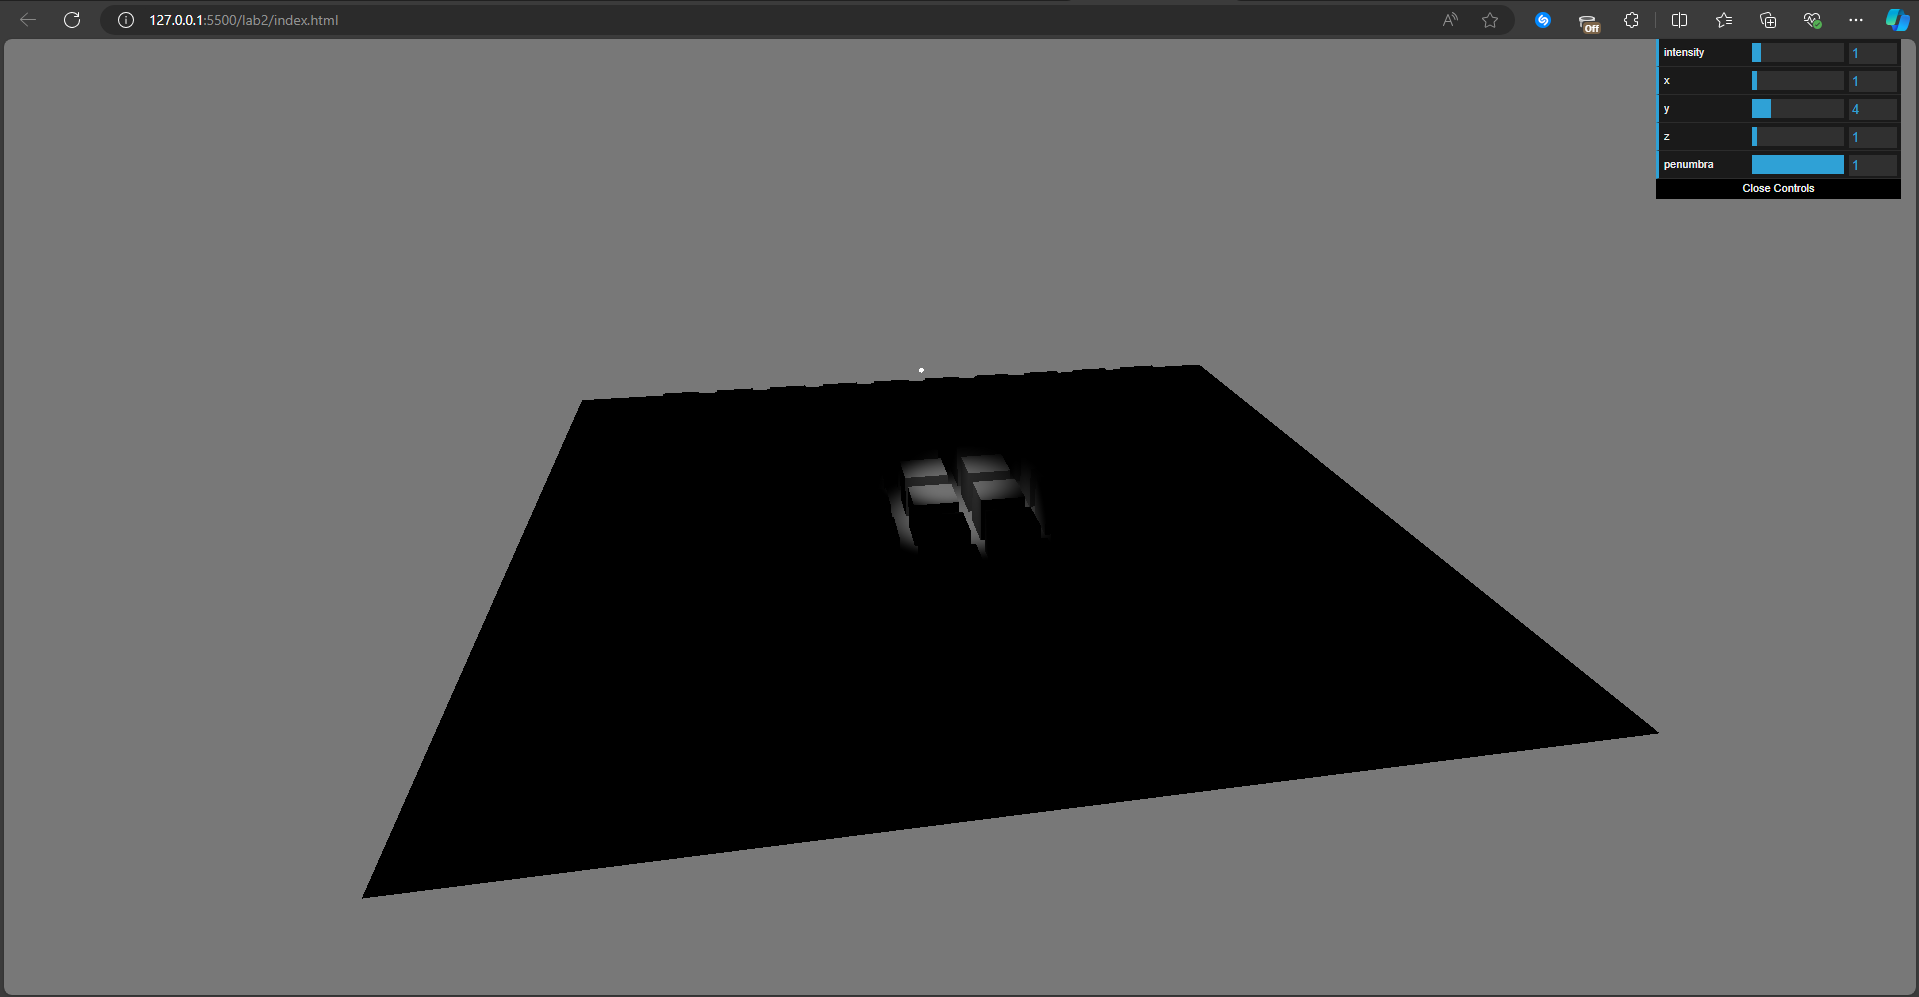
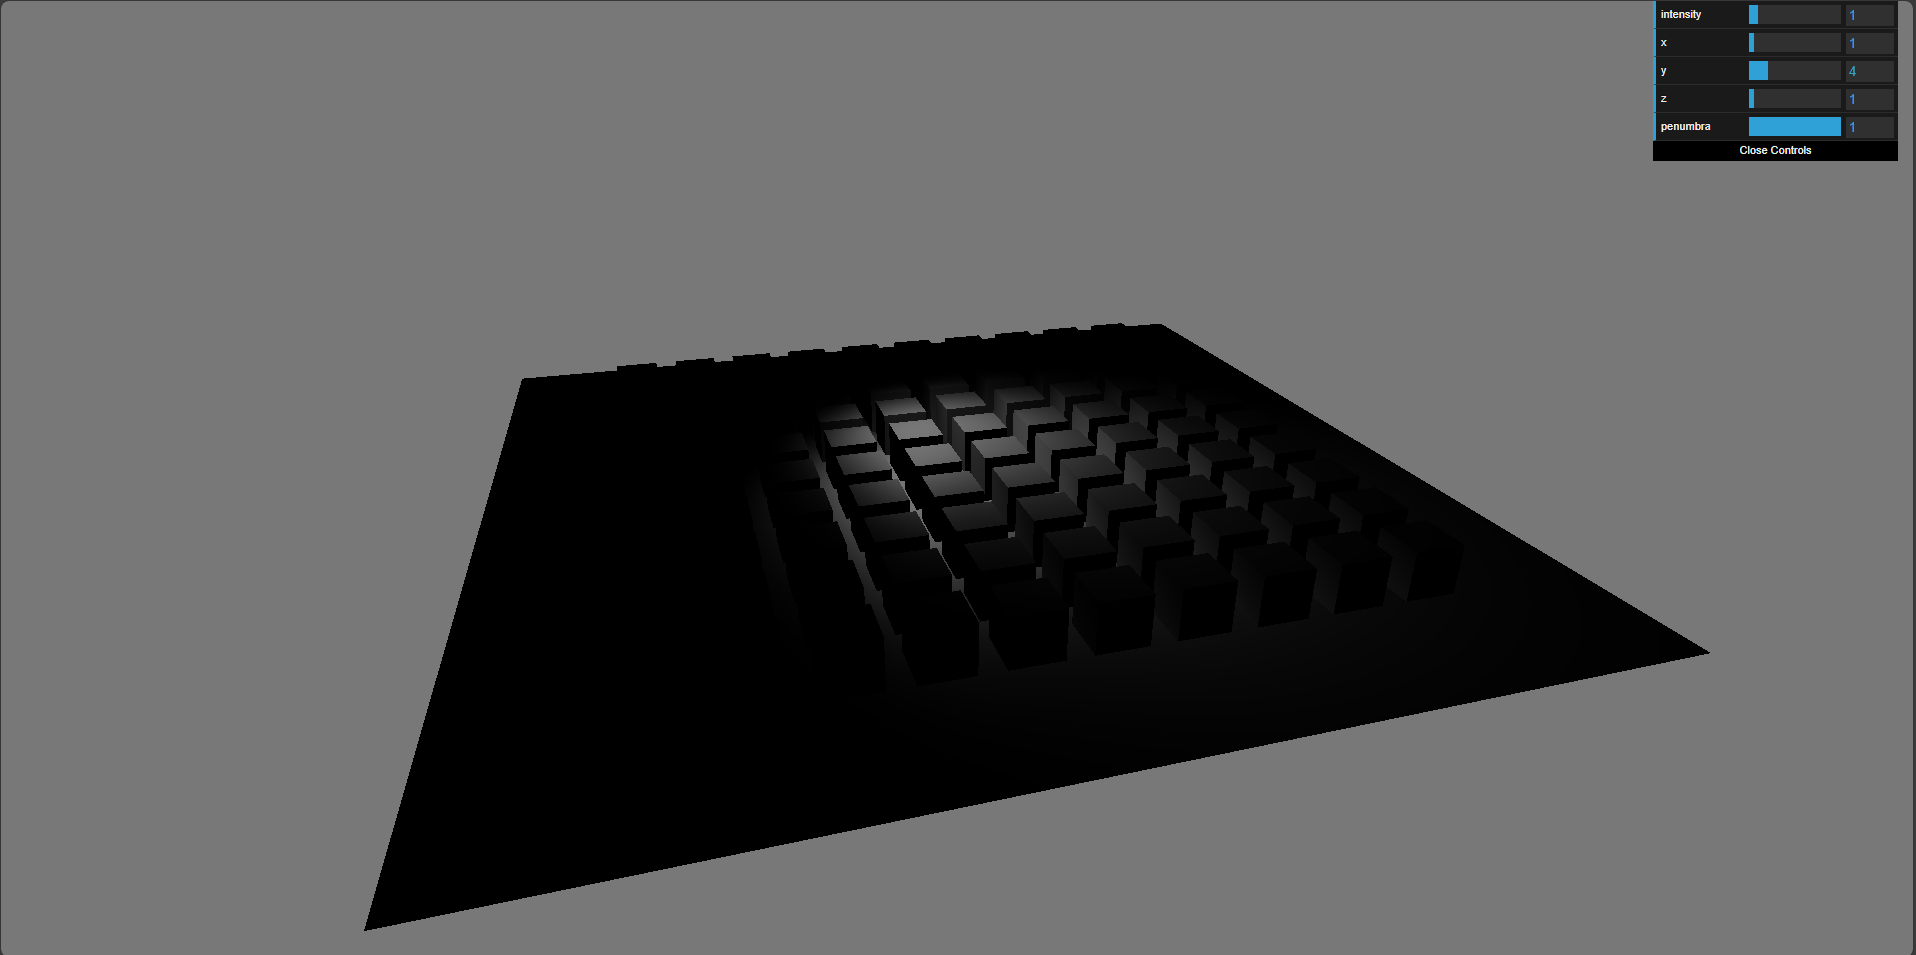
?

diff --git a/lab2/main.js b/lab2/main.js
@@ -2,59 +2,71 @@ function init() {
     var scene = new THREE.Scene();
     var enableFog = false;
     var gui = new dat.GUI();
-
     if (enableFog) {
-        scene.fog = new THREE.FogExp2(0xffffff, 0.2);
+    scene.fog = new THREE.FogExp2(0xffffff, 0.2);
     }
-
+    
+    var box = getBox(1, 1, 1);
     var plane = getPlane(20);
-    var spotLight = getSpotLight(1); // Using SpotLight
+    var spotLight = getSpotLight(1);
+    plane.name = 'plane-1';
+    plane.rotation.x = Math.PI/2;
+    spotLight.position.y = 4;
+    spotLight.intensity = 2;
+
+    scene.add(plane);
+    // scene.add(pointLight);
     var sphere = getSphere(0.05);
     var boxGrid = getBoxGrid(10, 1.5);
 
     plane.name = 'plane-1';
 
-    
-    plane.rotation.x = Math.PI / 2;
-    spotLight.position.set(0, 4, 0); // Set spotLight position
-    spotLight.intensity = 2;
+
+    plane. rotation.x = Math.PI/2;
+    // pointLight.position.y =2;
+
 
     scene.add(plane);
-    spotLight.add(sphere);
+    // pointLight.add(sphere);
     scene.add(spotLight);
     scene.add(boxGrid);
 
+
+//     gui.add(pointLight, 'intensity', 0, 10);
+//  gui.add(pointLight.position, 'y', 0, 5);
     gui.add(spotLight, 'intensity', 0, 10);
     gui.add(spotLight.position, 'x', 0, 20);
     gui.add(spotLight.position, 'y', 0, 20);
     gui.add(spotLight.position, 'z', 0, 20);
     gui.add(spotLight, 'penumbra', 0, 1);
-
     var camera = new THREE.PerspectiveCamera(
         50,
-        window.innerWidth / window.innerHeight,
+        window.innerWidth/window.innerHeight,
         1,
         1000
     );
-    camera.position.set(1, 2, 5);
+    camera.position.x = 1;
+    camera.position.y = 2;
+    camera.position.z = 5;
     camera.lookAt(new THREE.Vector3(0, 0, 0));
-
     var renderer = new THREE.WebGLRenderer();
     renderer.setSize(window.innerWidth, window.innerHeight);
-    renderer.setClearColor('rgb(120, 120, 120)')
-    document.getElementById("webgl").appendChild(renderer.domElement);
-
+    renderer.setClearColor('rgb(120, 120, 120)');
+    document.getElementById('webgl').appendChild(renderer.domElement);
     var controls = new THREE.OrbitControls(camera, renderer.domElement);
-
     update(renderer, scene, camera, controls);
 }
 
-function getBox(width, height, depth) {
-    var geometry = new THREE.BoxGeometry(width, height, depth);
+function getBox(w, h, d) {
+    var geometry = new THREE.BoxGeometry(w, h, d);
     var material = new THREE.MeshPhongMaterial({
         color: 'rgb(120, 120, 120)'
     });
-    var mesh = new THREE.Mesh(geometry, material);
+
+    var mesh = new THREE.Mesh(
+        geometry,
+        material
+    );
     mesh.castShadow = true;
     return mesh;
 }
@@ -65,52 +77,67 @@ function getPlane(size) {
         color: 'rgb(120, 120, 120)',
         side: THREE.DoubleSide
     });
-    var mesh = new THREE.Mesh(geometry, material);
+    var mesh = new THREE.Mesh(
+        geometry,
+        material
+    );
+
     mesh.receiveShadow = true;
     return mesh;
 }
 
-function getSpotLight(intensity) { // Adjusted to only use SpotLight
+function getPointLight(intensity) {
+    var light = new THREE.PointLight(0xffffff, intensity);
+    light.castShadow = true;
+    return light;
+}
+
+function getSpotLight(intensity) {
     var light = new THREE.SpotLight(0xffffff, intensity);
     light.castShadow = true;
-    light.angle = Math.PI / 6;
-    light.penumbra = 0.5;
-    light.decay = 2;
-    light.distance = 200;
     return light;
 }
 
 function update(renderer, scene, camera, controls) {
-    renderer.render(scene, camera);
-    controls.update();
-    requestAnimationFrame(function () {
-        update(renderer, scene, camera, controls);
-    });
-}
+    renderer.render(
+        scene,
+        camera
+    );
 
+    controls.update()
+    requestAnimationFrame(function() {
+        update(renderer, scene, camera, controls);
+    })
+}
 function getSphere(size) {
     var geometry = new THREE.SphereGeometry(size, 24, 24);
     var material = new THREE.MeshBasicMaterial({
-        color: 'rgb(255, 255, 255)'
+    color: 'rgb(255, 255, 255)'
     });
-    var mesh = new THREE.Mesh(geometry, material);
+    var mesh = new THREE.Mesh(
+    geometry,
+    material
+    );
     return mesh;
 }
 
 function getBoxGrid(amount, separationMultiplier) {
-    var group = new THREE.Group();
-    for (var i = 0; i < amount; i++) {
-        for (var j = 0; j < amount; j++) {
-            var obj = getBox(1, 1, 1);
-            obj.position.x = i * separationMultiplier;
-            obj.position.y = obj.geometry.parameters.height / 2;
-            obj.position.z = j * separationMultiplier;
-            group.add(obj);
+        var group = new THREE.Group(); //an object for grouping two or more objects
+        for (var i=0; i<amount; i++) {
+        var obj = getBox(1, 1, 1);
+        obj.position.x = i * separationMultiplier;
+        obj.position.y = obj.geometry.parameters.height/2;
+        group.add(obj);
+        for (var j=1; j<amount; j++) {
+        var obj = getBox(1, 1, 1);
+        obj.position.x = i * separationMultiplier;
+        obj.position.y = obj.geometry.parameters.height/2;
+        obj.position.z = j * separationMultiplier;
+        group.add(obj);
         }
-    }
-    group.position.x = -(separationMultiplier * (amount - 1)) / 2;
-    group.position.z = -(separationMultiplier * (amount - 1)) / 2;
-    return group;
-}
-
+        }
+        group.position.x = -(separationMultiplier * (amount-1))/2;
+        group.position.z = -(separationMultiplier * (amount-1))/2;
+        return group;
+       }
 init();

diff --git a/lab4/main.js b/lab4/main.js
@@ -1,0 +1,128 @@
+function init() {
+    var scene = new THREE.Scene();
+    var gui = new dat.GUI();
+    
+    // initialize objects
+    var sphereMaterial = getMaterial('rgb(255, 245, 245)');
+    var sphere = getSphere(sphereMaterial, 1, 24);
+    var planeMaterial = getMaterial('rgb(255, 255, 255)');
+    var plane = getPlane(planeMaterial,15);
+    var sphereGrid = getSphereGrid(10, 1.5);
+
+    var lightLeft = getSpotLight(1, 'rgb(255, 220, 180)');
+    
+    // manipulate objects
+    sphere.position.y = sphere.geometry.parameters.radius;
+    plane.rotation.x = Math.PI / 2;
+    lightLeft.position.x = -5;
+    lightLeft.position.y = 4;
+    lightLeft.position.z = -4;
+    
+    // manipulate materials
+    var loader = new THREE.TextureLoader();
+    sphereMaterial.map = loader.load('/assets/textures/concrete.jpg');
+    planeMaterial.map = loader.load('/assets/textures/checkerboard.jpg');
+    
+    // dat.gui
+    var folder1 = gui.addFolder('light_1');
+    folder1.add(lightLeft, 'intensity', 0, 10);
+    folder1.add(lightLeft.position, 'x', -5, 30);
+    folder1.add(lightLeft.position, 'y', -5, 30);
+    folder1.add(lightLeft.position, 'z', -5, 30);
+    
+    var folder2 = gui.addFolder('materials');
+    folder2.add(sphereMaterial, 'roughness', 0, 1);
+    folder2.add(planeMaterial, 'roughness', 0, 1);
+    folder2.add(sphereMaterial, 'metalness', 0, 1);
+    folder2.add(planeMaterial, 'metalness', 0, 1);
+    folder2.open();
+    
+    // add objects to the scene
+    scene.add(plane);
+    scene.add(lightLeft);
+    scene.add(sphereGrid);
+    
+    // camera
+    var camera = new THREE.PerspectiveCamera(
+        45, // field of view
+        window.innerWidth / window.innerHeight, // aspect ratio
+        1, // near clipping plane
+        1000 // far clipping plane
+    );
+    camera.position.z = 7;
+    camera.position.x = -2;
+    camera.position.y = 7;
+    camera.lookAt(new THREE.Vector3(0, 0, 0));
+    
+    // renderer
+    var renderer = new THREE.WebGLRenderer();
+    renderer.setSize(window.innerWidth, window.innerHeight);
+    renderer.shadowMap.enabled = true;
+    document.getElementById('webgl').appendChild(renderer.domElement);
+    
+    var controls = new THREE.OrbitControls(camera, renderer.domElement);
+    
+    update(renderer, scene, camera, controls);
+}
+
+function getSphere(material, size, segments) {
+    var geometry = new THREE.SphereGeometry(size, segments, segments);
+    var obj = new THREE.Mesh(geometry, material);
+    obj.castShadow = true;
+    return obj;
+}
+
+function getMaterial(color) {
+    var selectedMaterial;
+    var materialOptions = {
+        color: color === undefined ? 'rgb(255, 255, 255)' : color,
+    };
+    selectedMaterial = new THREE.MeshStandardMaterial(materialOptions);
+    return selectedMaterial;
+}
+
+function getSpotLight(intensity, color) {
+    color = color === undefined ? 'rgb(255, 255, 255)' : color;
+    var light = new THREE.SpotLight(color, intensity);
+    light.castShadow = true;
+    light.penumbra = 0.5;
+    light.shadow.mapSize.width = 2048; // default: 512
+    light.shadow.mapSize.height = 2048; // default: 512
+    light.shadow.bias = 0.001;
+    return light;
+}
+
+function getPlane(material, size) {
+    var geometry = new THREE.PlaneGeometry(size, size);
+    material.side = THREE.DoubleSide;
+    var obj = new THREE.Mesh(geometry, material);
+    obj.receiveShadow = true;
+    return obj;
+}
+
+function getSphereGrid(amount, separationMultiplier) {
+    var group = new THREE.Group(); // Group for combining multiple objects
+    for (var i = 0; i < amount; i++) {
+        for (var j = 0; j < amount; j++) {
+            var sphereMaterial = getMaterial('rgb(255, 245, 245)');
+            var obj = getSphere(sphereMaterial, 0.5, 24); // Create a sphere with size 0.5
+            obj.position.x = i * separationMultiplier;
+            obj.position.y = obj.geometry.parameters.radius;
+            obj.position.z = j * separationMultiplier;
+            group.add(obj);
+        }
+    }
+    group.position.x = -(separationMultiplier * (amount - 1)) / 2;
+    group.position.z = -(separationMultiplier * (amount - 1)) / 2;
+    return group;
+}
+
+function update(renderer, scene, camera, controls) {
+    controls.update();
+    renderer.render(scene, camera);
+    requestAnimationFrame(function () {
+        update(renderer, scene, camera, controls);
+    });
+}
+
+init();

diff --git a/lab4/index.html b/lab4/index.html
@@ -1,0 +1,20 @@
+<!DOCTYPE html>
+<html lang="en">
+<head>
+    <title>Three.js</title>
+    <style type="text/css">
+        html, body {
+            margin: 0; 
+            padding: 0; 
+            overflow: hidden}
+    </style>
+</head>
+<body>
+    <div id="webgl"></div>
+    <script src="/lib/three.js"></script>
+    <script src="/lib/dat.gui.min.js"></script>
+    <script src="/lib/OrbitControls.js"></script>
+    <script src="./main.js"></script>
+    
+</body>
+</html>
